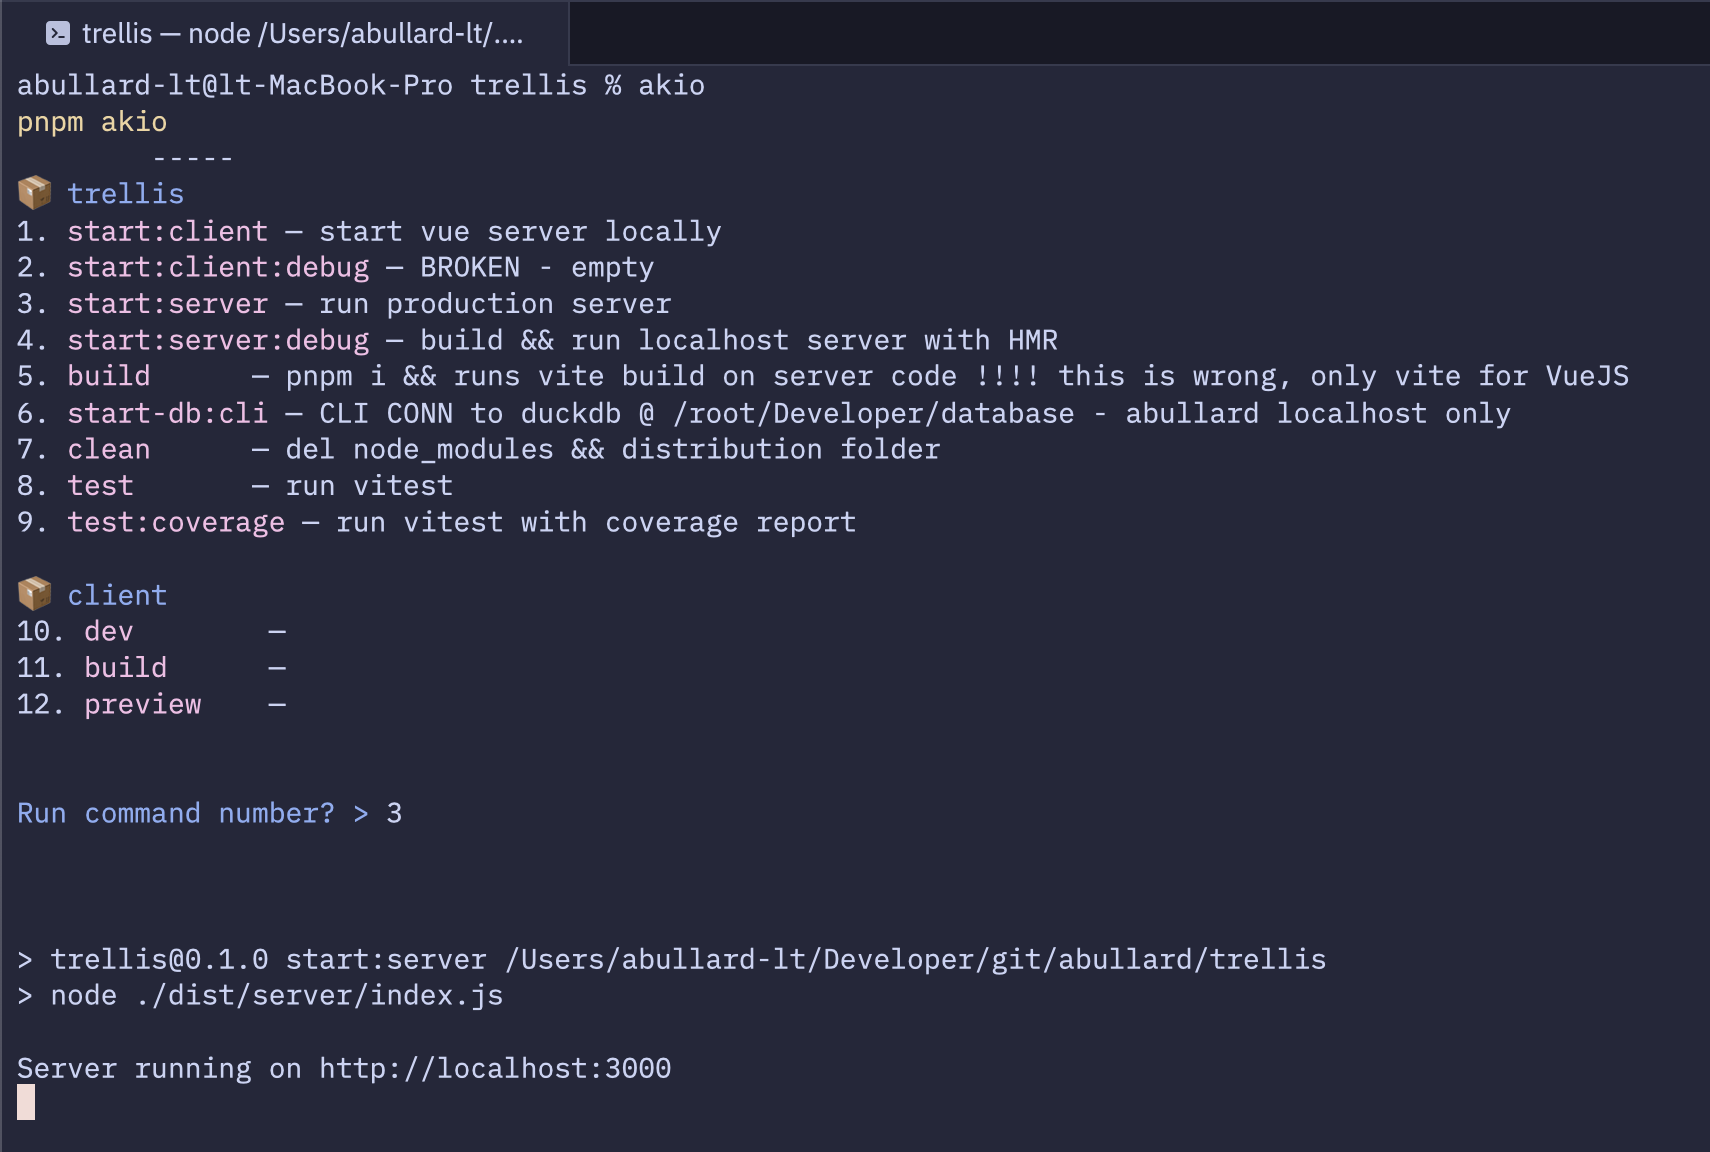
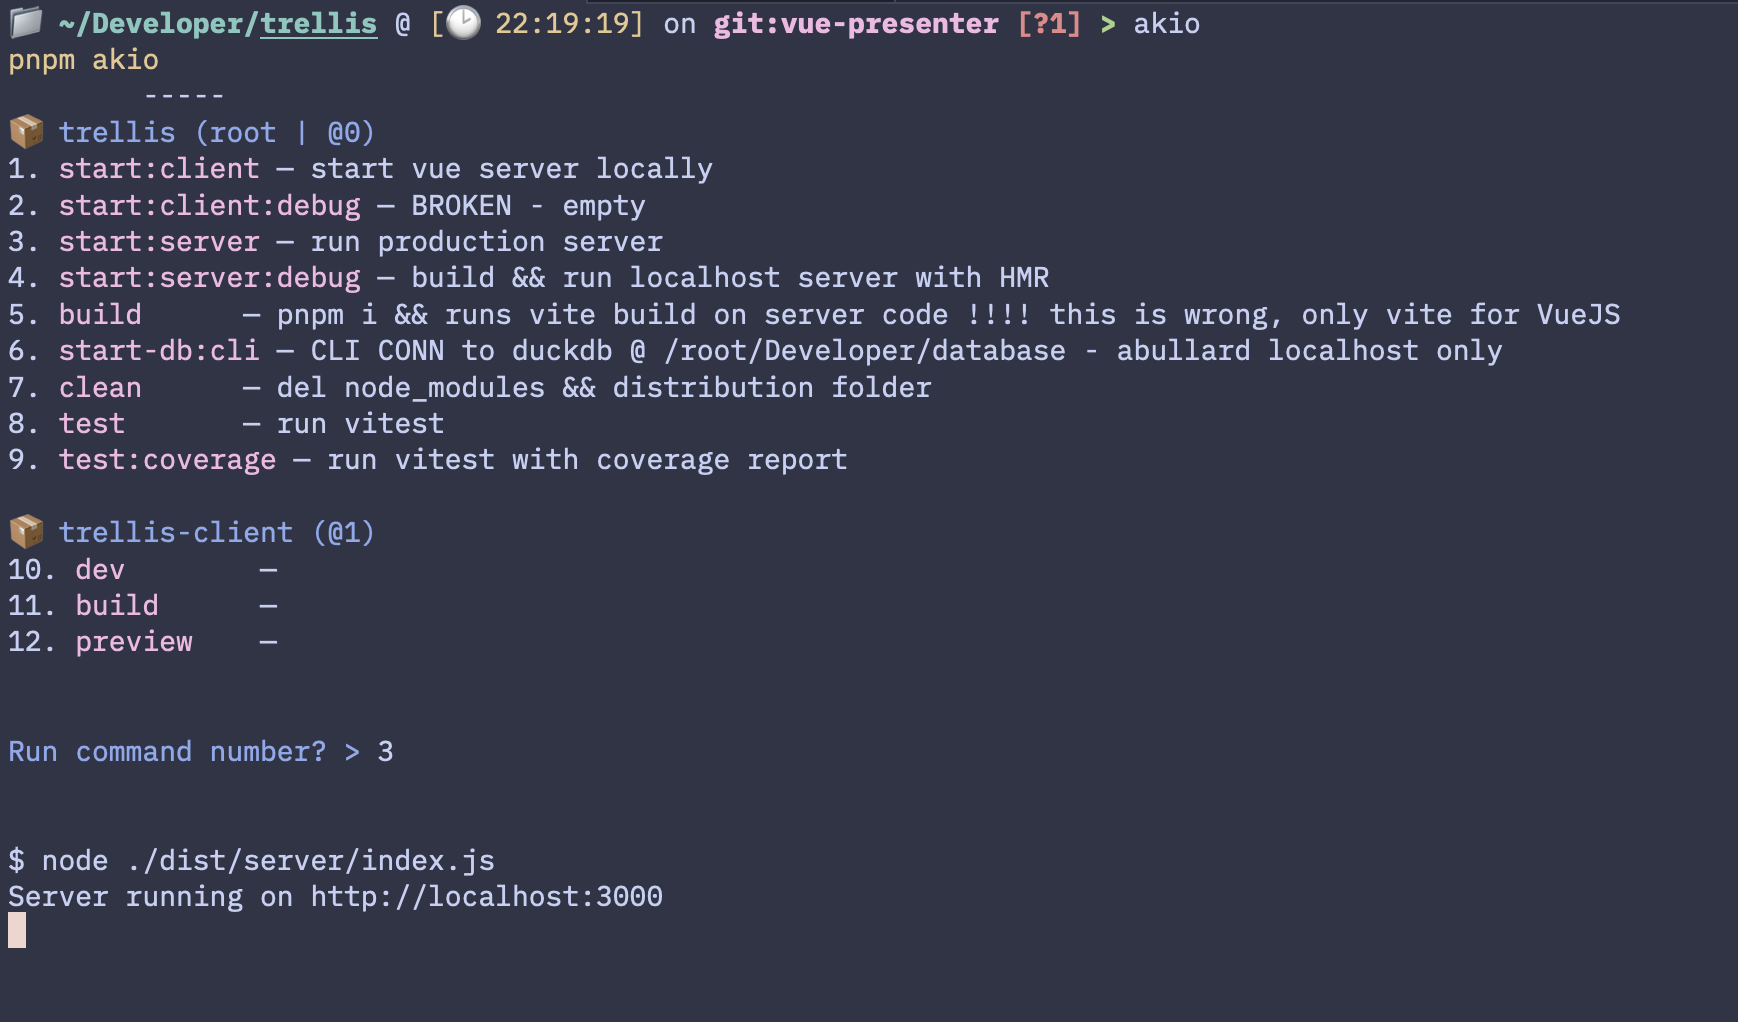
update readme, move screenshot to correct location, remove comment (#65)

Changed region(s): [[0.0, 0.0, 1.0, 0.637], [0.0, 0.819, 0.7749, 0.9706], [0.0, 0.6977, 0.217, 0.7583]]

diff --git a/src/index.ts b/src/index.ts
@@ -7,10 +7,6 @@ import { disableColors } from './formatting/colors';
 import { checkForUpdate } from './update-notification/update-notif';
 import { disableEmoji } from './formatting/emoji';
 
-// TODO AJB 05/26/2025:
-/*
-    1. ignore commands that are just pnpm package command passthroughs?
-*/
 const main = async () => {
     if (options.format) {
         disableColors();

diff --git a/docs/adrs/ADR0001-no-package-json-at-root.md b/docs/adrs/ADR0001-no-package-json-at-root.md
@@ -9,7 +9,7 @@ Not every repo akio runs in is JS-rooted - e.g. a dotnet/go host repo with an np
 - considered requiring a root `package.json` always: rejected, forces a dummy file on otherwise-valid non-JS-rooted repos.
 - considered synthesizing a fake root entry: rejected, a clear `@root` error beats silently faking one.
 
-Screenshot (project with no root package.json, akio still lists `packages/vue`): ![](../photos/no-package-json-at-root.png)
+Screenshot (project with no root package.json, akio still lists `packages/vue`): ![](../screenshots/no-package-json-at-root.png)
 
 ## Tradeoffs:
 1. Regressions won't be caught by akio's own test suite - akio's repo needs its own root `package.json` to run vitest/eslint at all, so a "no root" fixture can't live in-repo without breaking the harness that runs the tests. This isn't a gap that can be closed - verify behavior manually against a real non-JS-rooted repo instead (e.g. a playground, `~/Developer/fake-app` shown in the screenshot above) when touching this path.
